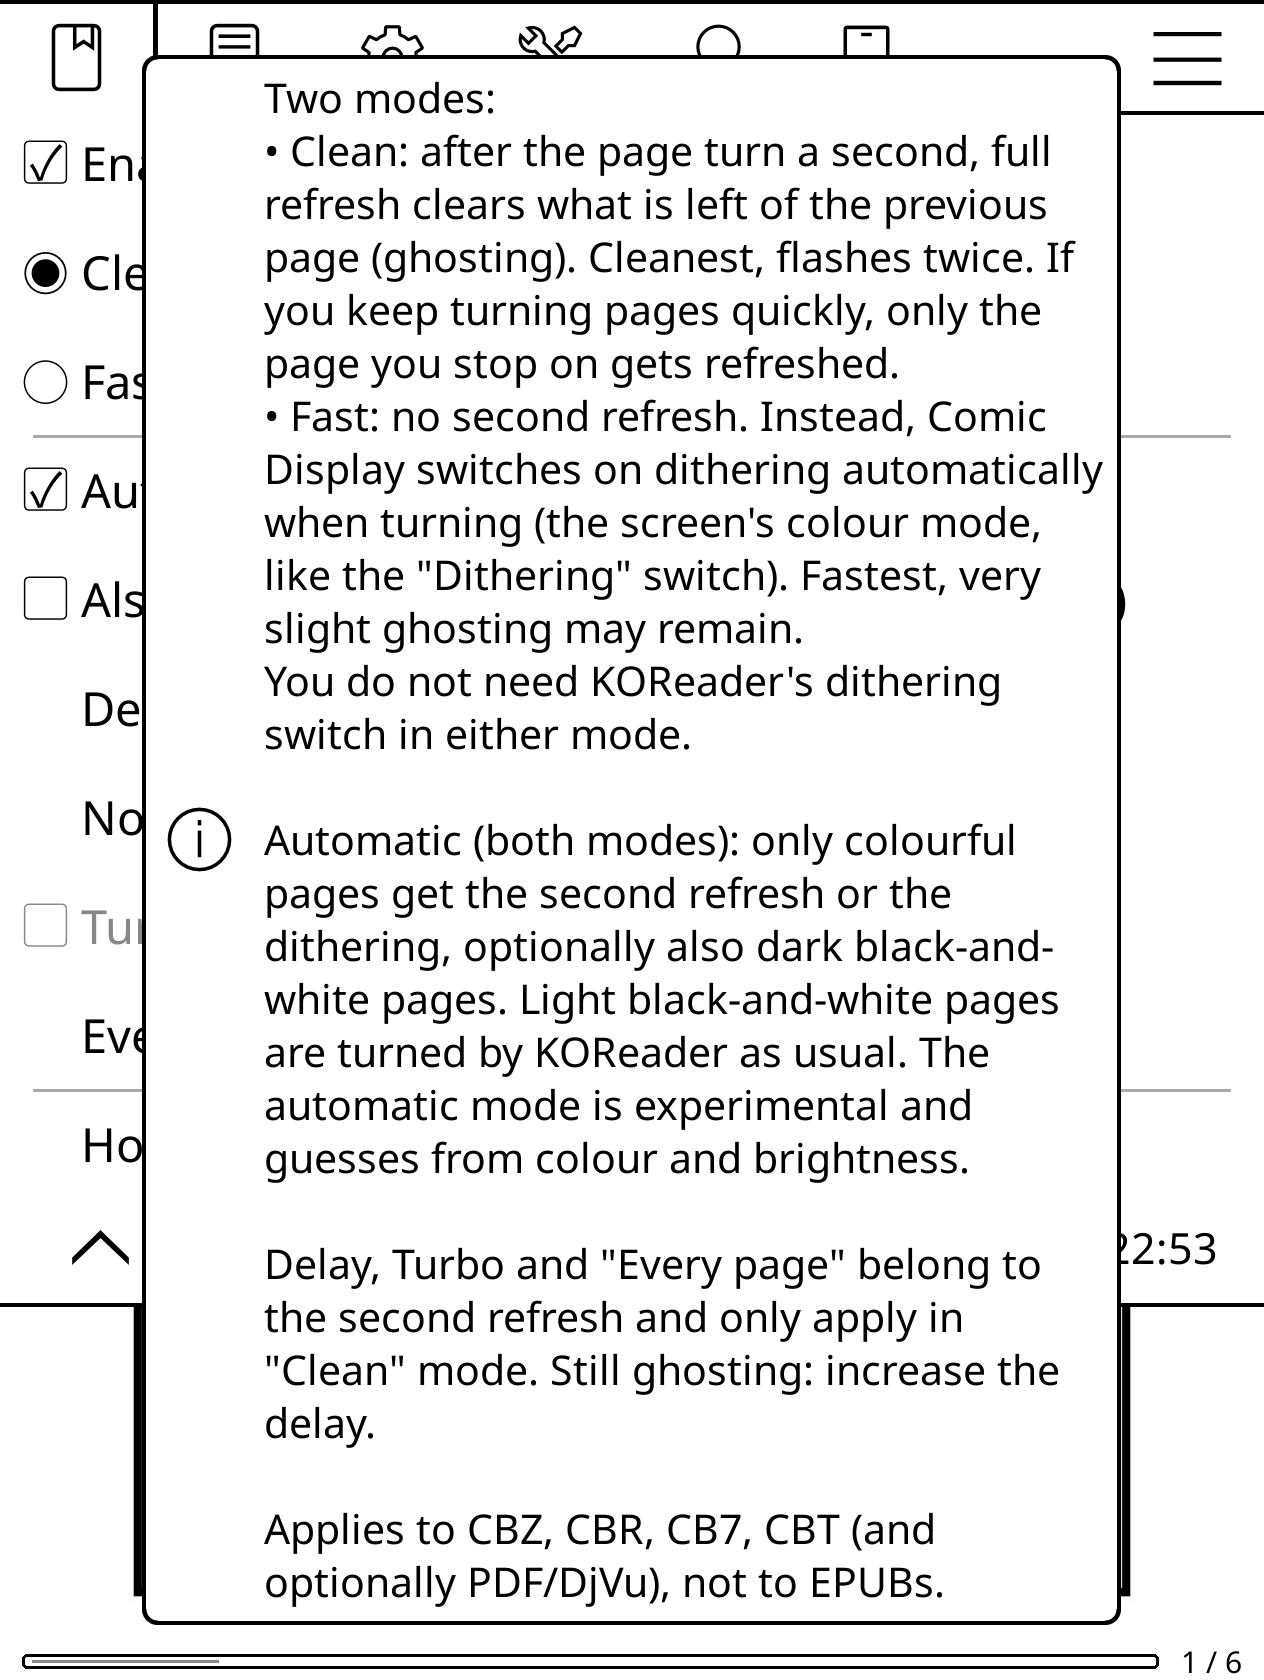
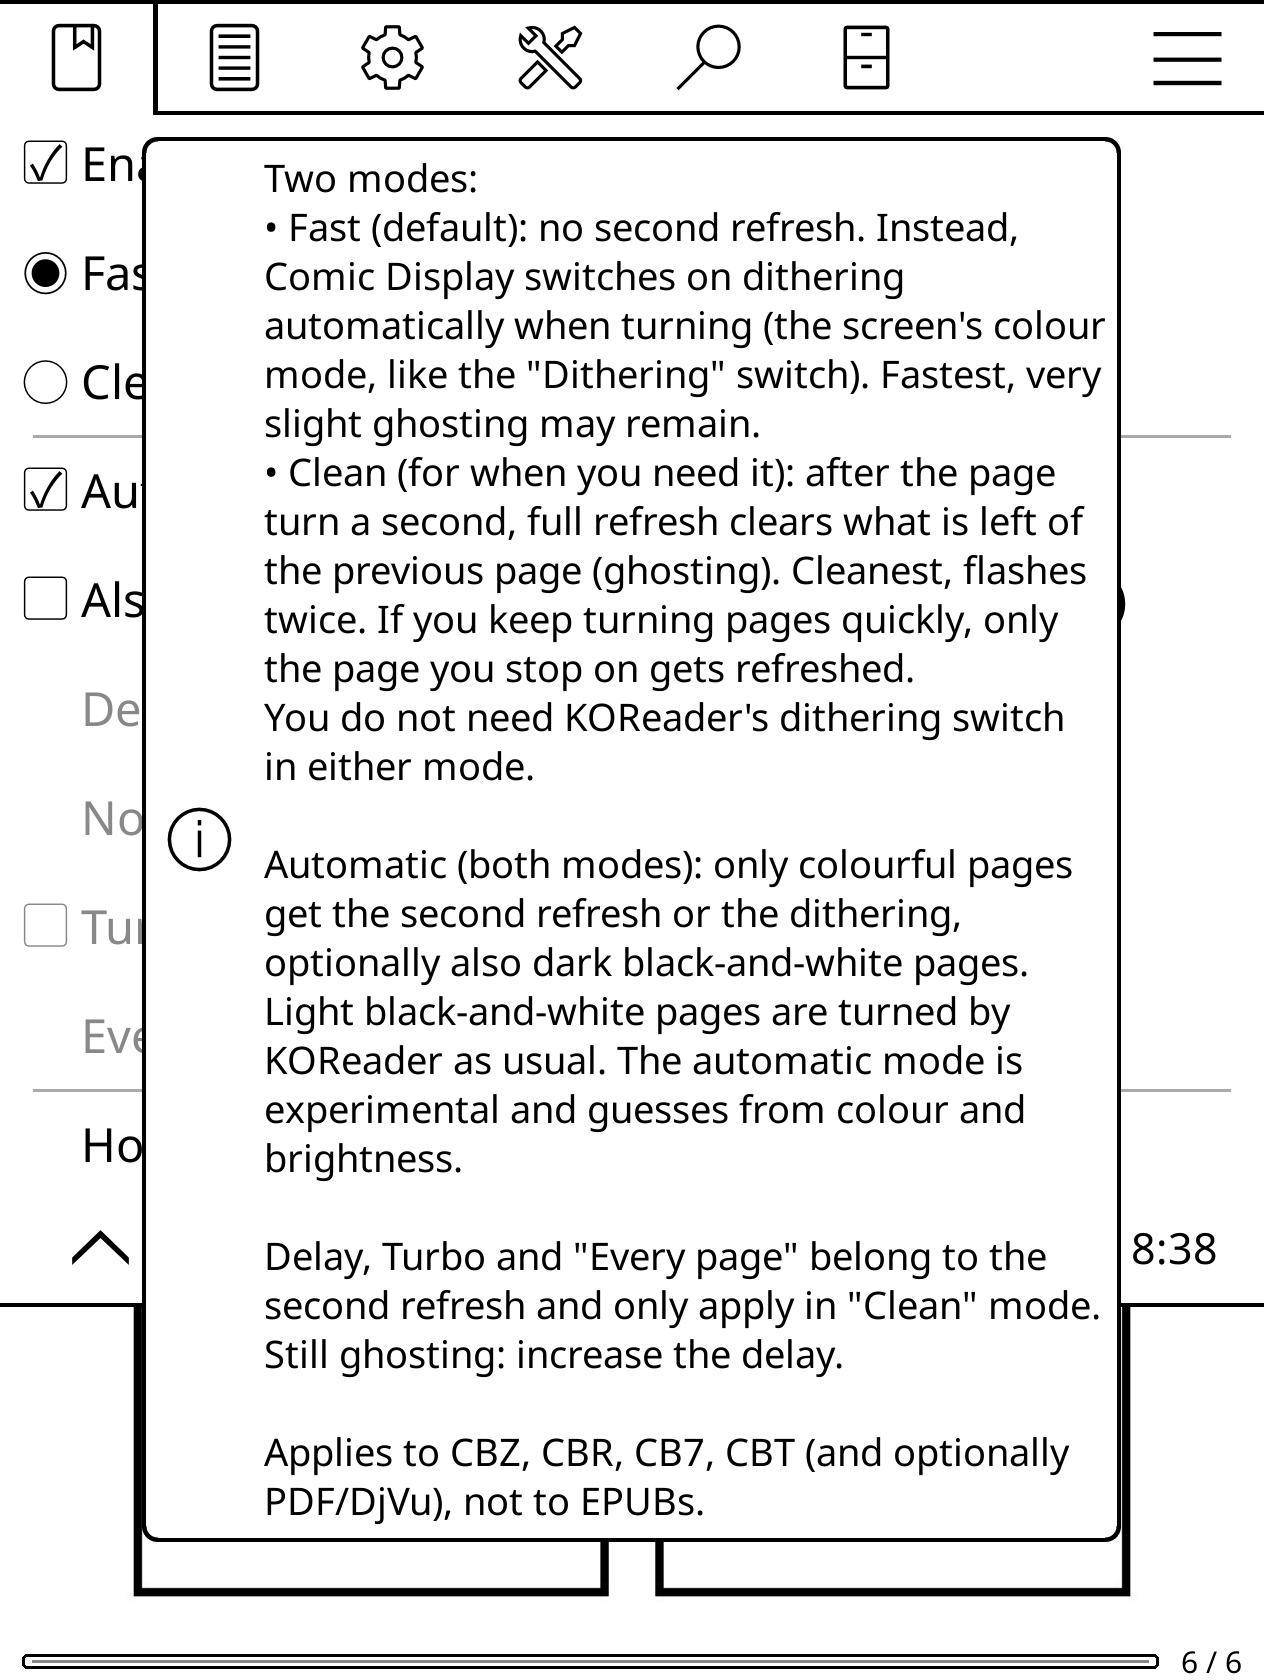
Version 0.2.0: Schnell (Dithering) ist jetzt der Standard

diff --git a/README.md b/README.md
@@ -2,15 +2,12 @@
 
 *Deutsch: [README.de.md](README.de.md)*
 
-<!-- byline -->
-A plugin by **Akrota and Claude**.
-
 <!-- lang-note -->
 *Works in **English and German**: menus and texts follow KOReader's language. A German description is at the bottom of this page.*
 
 A KOReader plugin that makes comics look better on colour e-ink. It does two things, each with its own settings:
 
-- **Refresh against ghosting:** right after a page turn, a second full refresh clears what is left of the previous page.
+- **Refresh against ghosting:** by default Comic Display switches on the screen's colour mode when you turn a page (fast). A second full refresh is available for when you need it (clean).
 - **Dark borders:** when a page doesn't fill the screen, the free border beside it is painted black instead of light, so dark pages don't sit in a bright frame.
 
 Both share one quick look at each page (brightness, colour, edge), so the page is only measured once.
@@ -23,24 +20,29 @@ Both share one quick look at each page (brightness, colour, edge), so the page i
 *The screenshots show the English interface; in a German KOReader the texts are German.*
 
 <table>
-<tr><td align="center" valign="top" width="33%"><img src="docs/screenshots/menu.png" width="260" alt="Comic Display menu"><br><sub>Comic Display menu</sub></td><td align="center" valign="top" width="33%"><img src="docs/screenshots/refresh.png" width="260" alt="Refresh against ghosting: mode, delay, how often"><br><sub>Refresh against ghosting: mode, delay, how often</sub></td><td align="center" valign="top" width="33%"><img src="docs/screenshots/refresh-help.png" width="260" alt="Help text: clean versus fast refresh, delay, turbo"><br><sub>Help text: clean versus fast refresh, delay, turbo</sub></td></tr>
+<tr><td align="center" valign="top" width="33%"><img src="docs/screenshots/menu.png" width="260" alt="Comic Display menu"><br><sub>Comic Display menu</sub></td><td align="center" valign="top" width="33%"><img src="docs/screenshots/refresh.png" width="260" alt="Refresh against ghosting: mode, delay, how often"><br><sub>Refresh against ghosting: mode, delay, how often</sub></td><td align="center" valign="top" width="33%"><img src="docs/screenshots/refresh-help.png" width="260" alt="Help text: fast versus clean refresh, delay, turbo"><br><sub>Help text: fast versus clean refresh, delay, turbo</sub></td></tr>
 <tr><td align="center" valign="top" width="33%"><img src="docs/screenshots/dark-borders.png" width="260" alt="Dark borders settings"><br><sub>Dark borders settings</sub></td><td align="center" valign="top" width="33%"><img src="docs/screenshots/dark-borders-help.png" width="260" alt="Help text: black borders, automatic mode"><br><sub>Help text: black borders, automatic mode</sub></td><td align="center" valign="top" width="33%"><img src="docs/screenshots/clock-settings.png" width="260" alt="Clock in the corner: battery, corner, style, size"><br><sub>Clock in the corner: battery, corner, style, size</sub></td></tr>
 </table>
 
 ## Refresh against ghosting
 
-On colour e-ink (for example the Kobo Libra Colour), remnants of the previous page often stay visible in comics, even when KOReader does a full refresh on every page. Comic Display triggers a **second** full refresh as soon as the new page is drawn.
+On colour e-ink (for example the Kobo Libra Colour), remnants of the previous page often stay visible in comics, even when KOReader does a full refresh on every page. Comic Display has two ways to deal with that:
 
-- When you turn pages quickly, a pending refresh is dropped. Only the page you stop on gets refreshed.
-- **Automatic: only colourful pages (experimental)** (default: on). Experimental, like all automatic options here: it guesses from colour and brightness. Ghosting is mainly visible on colourful pages. Black-and-white pages are refreshed by KOReader as usual, without the extra flash. The next page is checked in the background as soon as KOReader has preloaded it.
-- **Also dark black-and-white pages (experimental)** (default: off). For gloomy black-and-white comics: very dark pages get the extra refresh as well.
-- **Delay:** 0.3 s by default. Try "immediately": if the page is clean with it, that's the fastest option. If ghosting remains, increase the delay.
-- Right below it, a note explains why a short pause after the page turn always stays: KOReader draws the new page first, only then can the second refresh follow.
-- **Two modes:** **Clean** (default): a second, full refresh after the page turn, cleanest. **Fast: automatic dithering**: no second refresh; instead Comic Display switches on the screen's colour mode when turning (like KOReader's "Dithering" switch), following the automatic settings. Fastest, very slight ghosting may remain. You don't need KOReader's dithering switch in either mode.
+- **Fast: automatic dithering** (default, the recommended one): no second refresh. Comic Display switches on the screen's colour mode when you turn the page (like KOReader's "Dithering" switch), following the automatic settings below. Fastest, very slight ghosting may remain. You don't need KOReader's dithering switch.
+- **Clean: two refreshes** (kept for when you really need it): a **second** full refresh follows as soon as the new page is drawn. Cleanest, but the screen flashes twice. When you turn pages quickly, a pending refresh is dropped, only the page you stop on gets refreshed.
+
+Settings for both modes:
+
+- **Automatic: only colourful pages (experimental)** (default: on). Experimental, like all automatic options here: it guesses from colour and brightness. Ghosting is mainly visible on colourful pages. The next page is checked in the background as soon as KOReader has preloaded it.
+- **Also dark black-and-white pages (experimental)** (default: off). For gloomy black-and-white comics.
+
+Only for the clean mode:
+
+- **Delay:** 0.3 s by default. Try "immediately": if the page is clean with it, that's the fastest option. If ghosting remains, increase the delay. A short pause always stays: KOReader draws the new page first, only then can the second refresh follow.
 - **Turbo** (only with "immediately", experimental): the new page is first drawn in KOReader's fastest mode, the clean full refresh follows right after.
 - **How often:** every page (default), or only every 2nd, 3rd or 5th page.
 
-Tip: you can set KOReader's own "full refresh on every page" back to a normal value, for example every 6 pages. Comic Display takes care of a clean picture anyway, so the screen flashes once per page instead of twice.
+Tip for the clean mode: you can set KOReader's own "full refresh on every page" back to a normal value, for example every 6 pages, so the screen flashes once per page instead of twice.
 
 ## Dark borders
 
@@ -58,7 +60,7 @@ Tip: you can set KOReader's own "full refresh on every page" back to a normal va
 
 Open a comic, then go to: top menu → tools icon (wrench) → **Comic Display** (near the top).
 
-- **Refresh against ghosting: clean ▸** with the mode (clean or fast) and all refresh settings
+- **Refresh against ghosting: fast ▸** with the mode (fast or clean) and all refresh settings
 - **Dark borders: on ▸** with its own settings
 - **Clock in the corner:** time, optionally with battery, in a corner of the page (corner, size, and style: box, black outline or white outline). Off by default. Works with ZenOS 4.3 too.
 - **Also for PDF and DjVu** (for both)
@@ -80,7 +82,7 @@ The code was written entirely by **Claude**, an AI by Anthropic (in Claude Code)
 
 There is no warranty and no guaranteed support. Bug reports are welcome as [issues](../../issues). Please attach `crash.log` from the KOReader folder.
 
-## More plugins by Akrota and Claude
+## More plugins
 
 - [Levels / Tonwerte](https://github.com/Akrota/koreader-comic-levels): Tone curve for comics
 - [Comic Panel Zoom](https://github.com/Akrota/koreader-comic-panel-zoom): Panel-by-panel view (fork of JorgeTheFox's plugin)
@@ -103,7 +105,7 @@ There is no warranty and no guaranteed support. Bug reports are welcome as [issu
 
 Ein KOReader-Plugin, mit dem Comics auf Farb-E-Ink besser aussehen. Es macht zwei Dinge, jedes mit eigenen Einstellungen:
 
-- **Refresh gegen Ghosting:** Direkt nach dem Umblättern räumt ein zweiter Voll-Refresh auf, was von der vorigen Seite übrig ist.
+- **Refresh gegen Ghosting:** Standardmäßig schaltet Comic Display beim Umblättern den Farbmodus des Bildschirms ein (schnell). Ein zweiter Voll-Refresh steht bereit, falls du ihn brauchst (sauber).
 - **Dunkle Ränder:** Füllt eine Seite den Bildschirm nicht ganz, wird der freie Rand daneben schwarz statt hell. So stehen dunkle Seiten nicht in einem hellen Rahmen.
 
 Beide teilen sich einen kurzen Blick auf jede Seite (Helligkeit, Farbe, Rand), die Seite wird also nur einmal gemessen.

diff --git a/README.de.md b/README.de.md
@@ -2,15 +2,12 @@
 
 *English: [README.md](README.md)*
 
-<!-- byline -->
-Ein Plugin von **Akrota und Claude**.
-
 <!-- lang-note -->
 *Funktioniert auf **Deutsch und Englisch**: Menüs und Texte richten sich nach der KOReader-Sprache.*
 
 Ein KOReader-Plugin, mit dem Comics auf Farb-E-Ink besser aussehen. Es macht zwei Dinge, jedes mit eigenen Einstellungen:
 
-- **Refresh gegen Ghosting:** Direkt nach dem Umblättern räumt ein zweiter Voll-Refresh auf, was von der vorigen Seite übrig ist.
+- **Refresh gegen Ghosting:** Standardmäßig schaltet Comic Display beim Umblättern den Farbmodus des Bildschirms ein (schnell). Ein zweiter Voll-Refresh steht bereit, falls du ihn brauchst (sauber).
 - **Dunkle Ränder:** Füllt eine Seite den Bildschirm nicht ganz, wird der freie Rand daneben schwarz statt hell. So stehen dunkle Seiten nicht in einem hellen Rahmen.
 
 Beide teilen sich einen kurzen Blick auf jede Seite (Helligkeit, Farbe, Rand), die Seite wird also nur einmal gemessen.
@@ -23,24 +20,29 @@ Beide teilen sich einen kurzen Blick auf jede Seite (Helligkeit, Farbe, Rand), d
 *Die Bildschirmfotos zeigen die englische Oberfläche; in einem deutschen KOReader sind die Texte deutsch.*
 
 <table>
-<tr><td align="center" valign="top" width="33%"><img src="docs/screenshots/menu.png" width="260" alt="Comic-Display-Menü"><br><sub>Comic-Display-Menü</sub></td><td align="center" valign="top" width="33%"><img src="docs/screenshots/refresh.png" width="260" alt="Refresh gegen Ghosting: Modus, Verzögerung, wie oft"><br><sub>Refresh gegen Ghosting: Modus, Verzögerung, wie oft</sub></td><td align="center" valign="top" width="33%"><img src="docs/screenshots/refresh-help.png" width="260" alt="Hilfetext: sauberer gegen schneller Refresh, Verzögerung, Turbo"><br><sub>Hilfetext: sauberer gegen schneller Refresh, Verzögerung, Turbo</sub></td></tr>
+<tr><td align="center" valign="top" width="33%"><img src="docs/screenshots/menu.png" width="260" alt="Comic-Display-Menü"><br><sub>Comic-Display-Menü</sub></td><td align="center" valign="top" width="33%"><img src="docs/screenshots/refresh.png" width="260" alt="Refresh gegen Ghosting: Modus, Verzögerung, wie oft"><br><sub>Refresh gegen Ghosting: Modus, Verzögerung, wie oft</sub></td><td align="center" valign="top" width="33%"><img src="docs/screenshots/refresh-help.png" width="260" alt="Hilfetext: schneller gegen sauberer Refresh, Verzögerung, Turbo"><br><sub>Hilfetext: schneller gegen sauberer Refresh, Verzögerung, Turbo</sub></td></tr>
 <tr><td align="center" valign="top" width="33%"><img src="docs/screenshots/dark-borders.png" width="260" alt="Einstellungen für dunkle Ränder"><br><sub>Einstellungen für dunkle Ränder</sub></td><td align="center" valign="top" width="33%"><img src="docs/screenshots/dark-borders-help.png" width="260" alt="Hilfetext: schwarze Ränder, Automatik"><br><sub>Hilfetext: schwarze Ränder, Automatik</sub></td><td align="center" valign="top" width="33%"><img src="docs/screenshots/clock-settings.png" width="260" alt="Uhrzeit in der Ecke: Akku, Ecke, Stil, Größe"><br><sub>Uhrzeit in der Ecke: Akku, Ecke, Stil, Größe</sub></td></tr>
 </table>
 
 ## Refresh gegen Ghosting
 
-Auf Farb-E-Ink (zum Beispiel dem Kobo Libra Colour) bleiben bei Comics oft Reste der vorigen Seite sichtbar, auch wenn KOReader bei jeder Seite voll auffrischt. Comic Display löst einen **zweiten** Voll-Refresh aus, sobald die neue Seite gezeichnet ist.
+Auf Farb-E-Ink (zum Beispiel Kobo Libra Colour) bleiben bei Comics oft Reste der vorigen Seite sichtbar, selbst wenn KOReader bei jeder Seite voll auffrischt. Comic Display hat zwei Wege dagegen:
 
-- Blätterst du schnell weiter, entfällt ein noch wartender Refresh. Nur die Seite, auf der du stehen bleibst, wird aufgefrischt.
-- **Automatisch: nur farbige Seiten (experimentell)** (Standard: an). Experimentell, wie alle Automatiken hier: Sie schätzt nach Farbe und Helligkeit. Ghosting sieht man vor allem auf farbigen Seiten. Schwarzweiß-Seiten frischt KOReader ganz normal auf, ohne das zusätzliche Blitzen. Die nächste Seite wird schon im Hintergrund geprüft, sobald KOReader sie vorgeladen hat.
-- **Auch dunkle Schwarzweiß-Seiten (experimentell)** (Standard: aus). Für düstere Schwarzweiß-Comics: Sehr dunkle Seiten bekommen den Extra-Refresh ebenfalls.
-- **Verzögerung:** standardmäßig 0,3 s. Probier „sofort“: Ist die Seite damit sauber, ist das am schnellsten. Bleibt Ghosting, die Verzögerung erhöhen.
-- Direkt darunter erklärt ein Hinweis, warum eine kurze Pause nach dem Blättern immer bleibt: KOReader zeichnet zuerst die neue Seite, erst danach kann der zweite Refresh folgen.
-- **Zwei Modi:** **Sauber** (Standard): ein zweiter, voller Refresh nach dem Umblättern, am saubersten. **Schnell: Dithering automatisch**: kein zweiter Refresh, stattdessen schaltet Comic Display beim Umblättern den Farbmodus des Bildschirms ein (wie KOReaders Schalter „Dithering“), passend zu den Automatik-Einstellungen. Am schnellsten, ganz leichtes Ghosting kann bleiben. KOReaders Dithering-Schalter brauchst du in keinem Modus.
+- **Schnell: Dithering automatisch** (Standard, die empfohlene Einstellung): kein zweiter Refresh. Comic Display schaltet beim Umblättern den Farbmodus des Bildschirms ein (wie KOReaders Schalter „Dithering“), passend zu den Automatik-Einstellungen unten. Am schnellsten, ganz leichtes Ghosting kann bleiben. KOReaders Dithering-Schalter brauchst du nicht.
+- **Sauber: zwei Refreshes** (nur noch da, falls du ihn wirklich mal brauchst): Gleich nach dem Zeichnen der neuen Seite folgt ein **zweiter** Voll-Refresh. Am saubersten, der Bildschirm blitzt aber zweimal. Blätterst du schnell weiter, wird nur die Seite aufgefrischt, auf der du stehen bleibst.
+
+Einstellungen für beide Modi:
+
+- **Automatik: nur farbige Seiten (experimentell)** (Standard: an). Experimentell wie alle Automatiken hier: Sie schätzt nach Farbe und Helligkeit. Ghosting sieht man vor allem auf farbigen Seiten. Die nächste Seite wird im Hintergrund geprüft, sobald KOReader sie vorgeladen hat.
+- **Auch dunkle Schwarzweiß-Seiten (experimentell)** (Standard: aus). Für düstere Schwarzweiß-Comics.
+
+Nur für den Modus „Sauber“:
+
+- **Verzögerung:** standardmäßig 0,3 s. Probier „sofort“: Ist die Seite damit sauber, ist das am schnellsten. Bleibt Ghosting, die Verzögerung erhöhen. Eine kurze Pause bleibt immer: KOReader zeichnet erst die neue Seite, dann kann der zweite Refresh folgen.
 - **Turbo** (nur mit „sofort“, experimentell): Die neue Seite wird zuerst im schnellsten Modus von KOReader gezeichnet, der saubere Voll-Refresh folgt gleich danach.
-- **Wie oft:** jede Seite (Standard) oder nur jede 2., 3. oder 5. Seite.
+- **Wie oft:** bei jeder Seite (Standard) oder nur jede 2., 3. oder 5. Seite.
 
-Tipp: KOReaders eigenes „Voll-Refresh bei jeder Seite“ kannst du wieder auf einen normalen Wert stellen, zum Beispiel alle 6 Seiten. Comic Display sorgt ohnehin für ein sauberes Bild, so blitzt der Bildschirm einmal pro Seite statt zweimal.
+Tipp für „Sauber“: KOReaders eigenes „Voll-Refresh bei jeder Seite“ kannst du wieder auf einen normalen Wert stellen, zum Beispiel alle 6 Seiten, dann blitzt der Bildschirm einmal pro Seite statt zweimal.
 
 ## Dunkle Ränder
 
@@ -58,7 +60,7 @@ Tipp: KOReaders eigenes „Voll-Refresh bei jeder Seite“ kannst du wieder auf 
 
 Einen Comic öffnen, dann: oberes Menü → Werkzeug-Symbol → **Comic Display** (weit oben).
 
-- **Refresh gegen Ghosting: sauber ▸** mit dem Modus (sauber oder schnell) und allen Refresh-Einstellungen
+- **Refresh gegen Ghosting: schnell ▸** mit dem Modus (schnell oder sauber) und allen Refresh-Einstellungen
 - **Dunkle Ränder: an ▸** mit eigenen Einstellungen
 - **Uhrzeit in der Ecke:** Zeit, auf Wunsch mit Akku, in einer Ecke der Seite (Ecke, Größe und Stil: Kasten, schwarzer oder weißer Umriss). Ab Werk aus. Funktioniert auch mit ZenOS 4.3.
 - **Auch bei PDF und DjVu** (für beides)
@@ -80,7 +82,7 @@ Den Code hat vollständig **Claude** geschrieben, eine KI von Anthropic (in Clau
 
 Keine Gewährleistung und kein garantierter Support. Fehlermeldungen gern als [Issue](../../issues). Bitte `crash.log` aus dem KOReader-Ordner anhängen.
 
-## Weitere Plugins von Akrota und Claude
+## Weitere Plugins
 
 - [Levels / Tonwerte](https://github.com/Akrota/koreader-comic-levels): Tonwertkurve für Comics
 - [Comic Panel Zoom](https://github.com/Akrota/koreader-comic-panel-zoom): Panel-für-Panel-Ansicht (Fork von JorgeTheFox)
